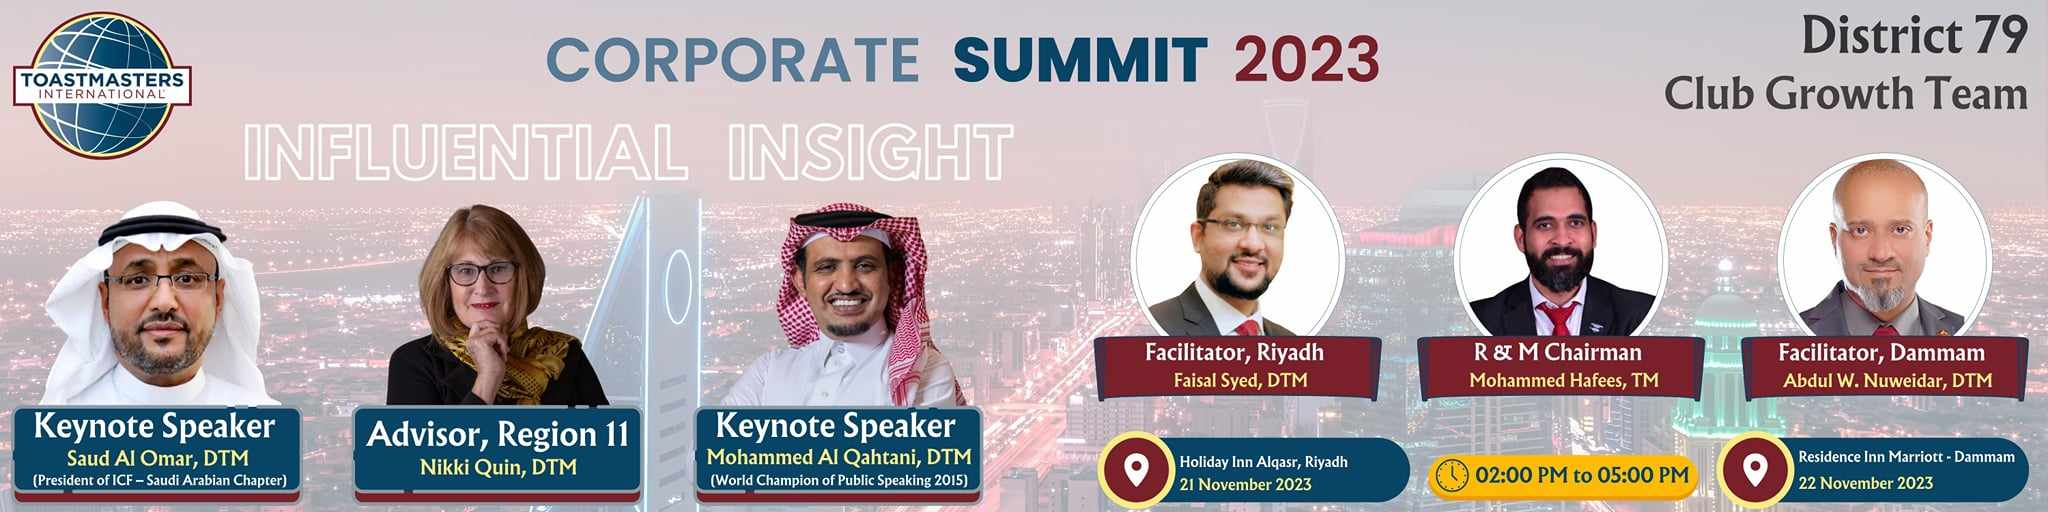
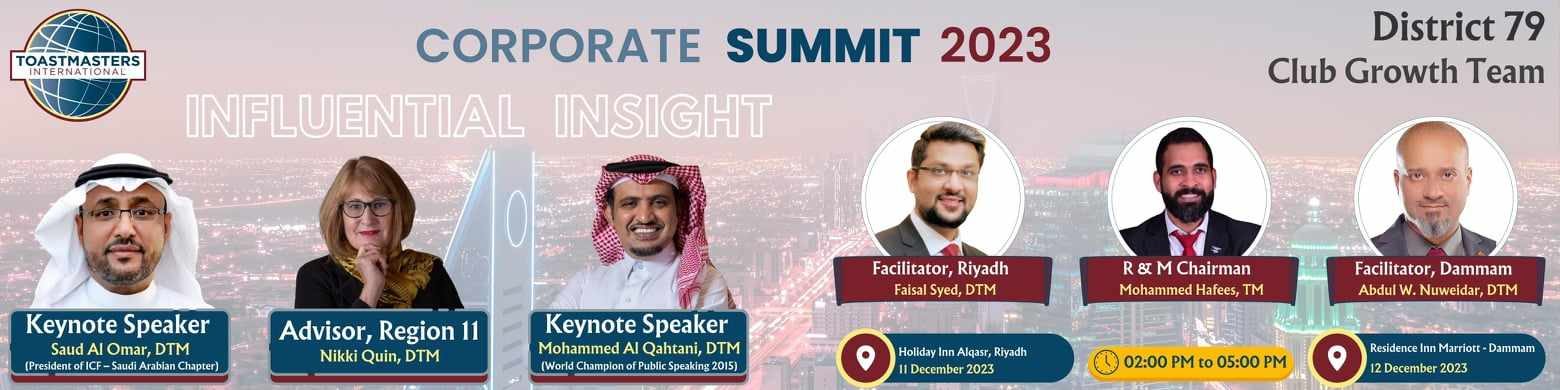
mobile view added

diff --git a/index.html b/index.html
@@ -18,6 +18,29 @@
     <!--main style file-->
     <link rel="stylesheet" href="assets/css/style.css">
     <link rel="stylesheet" href="assets/css/responsive.css">
+
+    <style>
+        @media all and (min-width: 480px) {
+                .deskContent {
+                    display: block;
+                }
+    
+                .phoneContent {
+                    display: none;
+                }
+            }
+    
+            @media all and (max-width: 479px) {
+                .deskContent {
+                    display: none;
+                }
+    
+                .phoneContent {
+                    display: block;
+                }
+            }
+    </style>
+
 </head>
 
 <body>
@@ -66,8 +89,11 @@
             <a href="#banner"><i class="fa fa-rocket" aria-hidden="true"></i></a>
         </div>
         <div class="container zindex">
-            <div class="row">
+            <div class="row deskContent">
                 <img src="assets/img/tm_banner.jpg" alt="banner-img" class="img-fluids">
+            </div>
+            <div class="row phoneContent">
+                <img src="assets/img/tm_banner_mobile.jpg" alt="banner-img" class="img-fluid">
             </div>
         </div>
     </section>
@@ -119,8 +145,8 @@
                         <img src="assets/img/tmc_pic.png" alt="blog-img" class="img-fluid">
                         <div class="blog-data">
                             <div class="blog-date">
-                                <h4>21</h4>
-                                <h5>November</h5>
+                                <h4>11</h4>
+                                <h5>December</h5>
                             </div>
                             <span><i class="fa fa-clock-o" aria-hidden="true"></i> 2:00 - 5:00 PM</span>
                             <a href="#">
@@ -134,8 +160,8 @@
                         <img src="assets/img/tmc_pic2.png" alt="blog-img" class="img-fluid">
                         <div class="blog-data">
                             <div class="blog-date">
-                                <h4>22</h4>
-                                <h5>November</h5>
+                                <h4>12</h4>
+                                <h5>December</h5>
                             </div>
                             <span><i class="fa fa-clock-o" aria-hidden="true"></i> 2:00 - 5:00 PM</span>
                             <a href="#">
